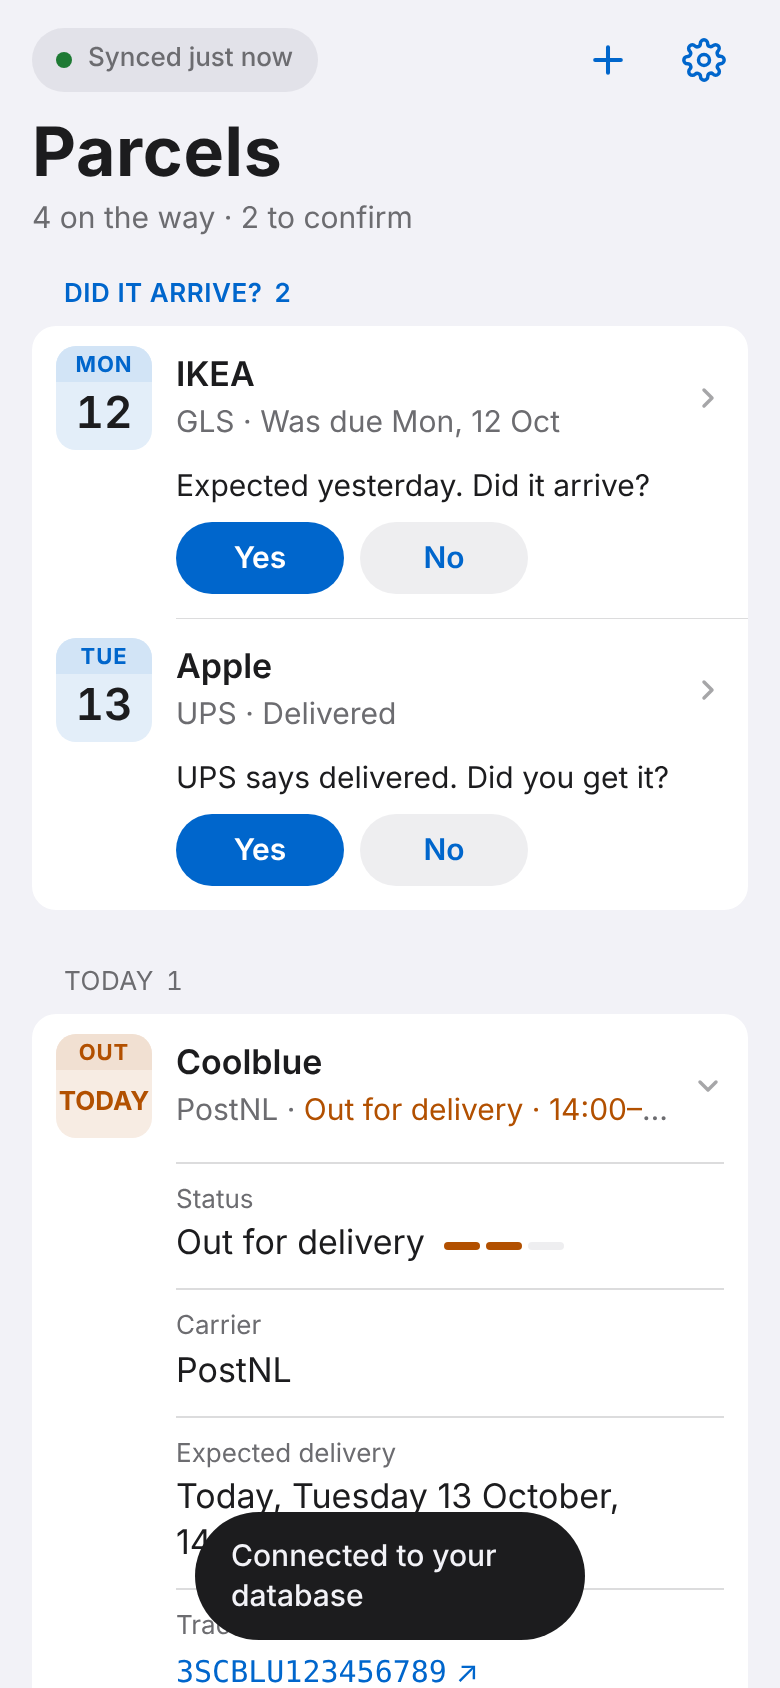
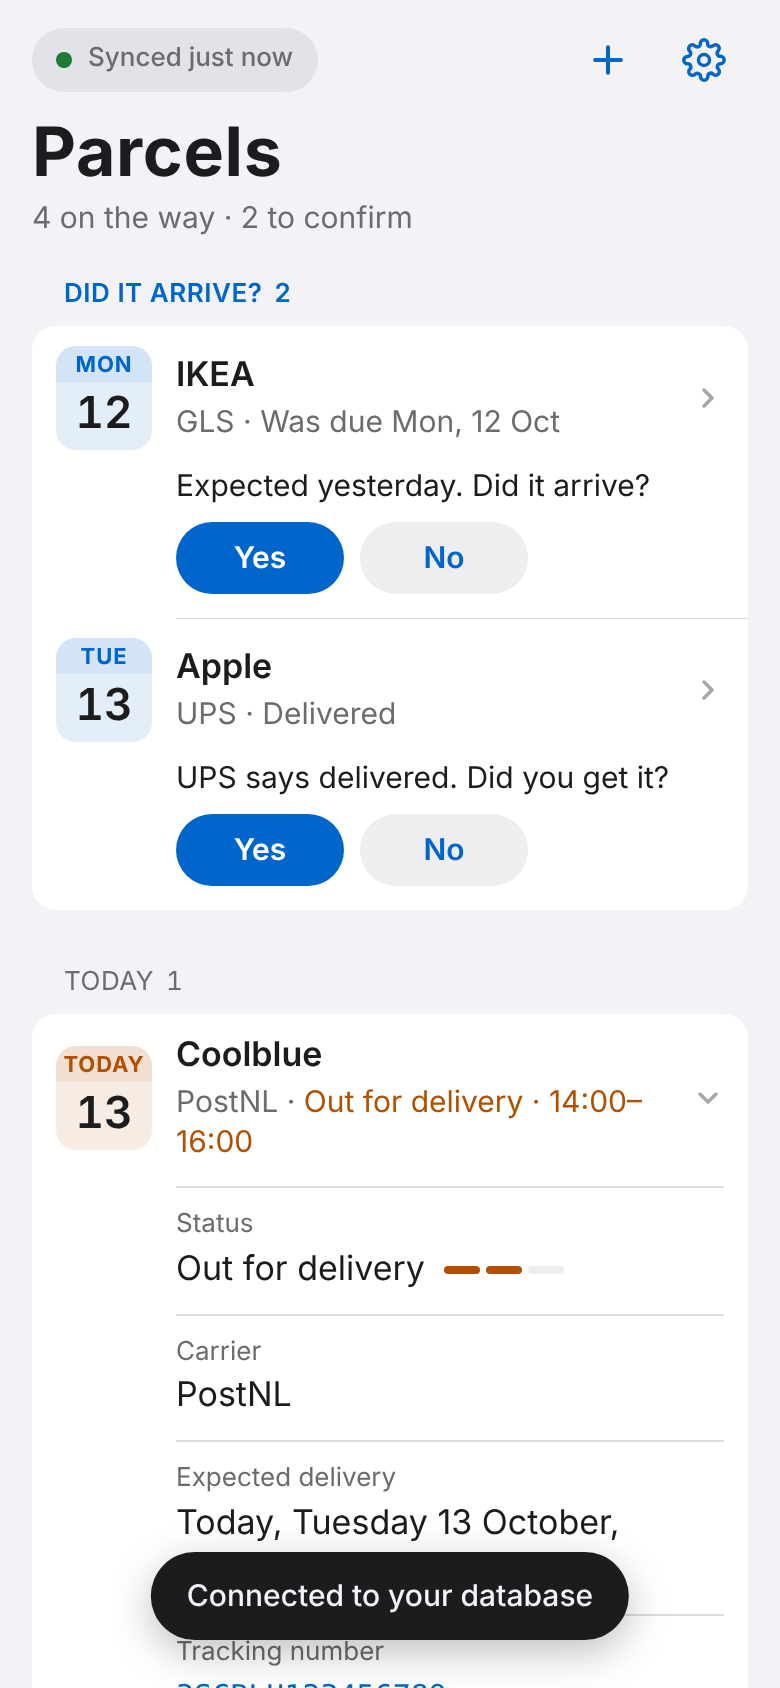
Fix review findings: forwarder as shop, sender spoofing, connect links
- Hand-forwards: label the owner's From line "Forwarded by" so the parser
  doesn't name the parcel after the forwarder; recognise Outlook's
  "Original Message" marker
- ALLOWED_SENDERS is required ('*' opts into anyone) and matched against the
  exact From address or Gmail's X-Forwarded-For; Reply-To and display
  names no longer count
- Escape +, - and @ as well as = before writing to the Sheet
- #connect= links ask before switching a device's database
- Dark-mode sheets get an elevated surface; phone facts stack label over
  value; ask buttons stay together; subtitles wrap to two lines
- Dates keep their case, the out-for-delivery tile shows today's date,
  empty state names the inbox address and offers Connect
- Optional name signs the problem email
- README: save properties, where the token lives, iPhone connect step,
  Pages branch, broader Gmail filter

Claude-Session: https://claude.ai/code/session_01FPgYyKeFreHuQdtpbAjW5h

Changed region(s): [[0.1846, 0.6161, 0.8308, 1.0], [0.0615, 0.5853, 0.1846, 0.7085], [0.7077, 0.6469, 0.8308, 0.6777]]

diff --git a/app.js b/app.js
@@ -17,6 +17,7 @@ const esc = (s = '') => String(s).replace(/[&<>"']/g, (c) => ({ '&': '&amp;', '<
 const uid = () => Math.random().toString(36).slice(2, 10) + Date.now().toString(36);
 const isoDate = (d) => `${d.getFullYear()}-${String(d.getMonth() + 1).padStart(2, '0')}-${String(d.getDate()).padStart(2, '0')}`;
 const todayISO = () => isoDate(new Date());
+const lowerRel = (t) => (/^(Today|Tomorrow|Yesterday)$/.test(t) ? t.toLowerCase() : t);
 const carrierName = (p) => (CARRIERS[p.carrier] || CARRIERS.other).name;
 const trackSite = (p) => (p.carrier && p.carrier !== 'other' ? carrierName(p) : '17TRACK');
 
@@ -200,7 +201,7 @@ function renderSync() {
 function askReason(p, today) {
   if (p.confirmed) return null;
   if (p.status === 'delivered') return `${carrierName(p) === 'Other' ? 'Tracking' : carrierName(p)} says delivered. Did you get it?`;
-  if (p.eta && p.eta < today) return `Expected ${relDay(p.eta).text.toLowerCase()}. Did it arrive?`;
+  if (p.eta && p.eta < today) return `Expected ${lowerRel(relDay(p.eta).text)}. Did it arrive?`;
   return null;
 }
 
@@ -245,7 +246,7 @@ function tile(p, kind) {
   let top, body;
   if (kind === 'done') { top = 'Got it'; body = ICON.check; }
   else if (kind === 'problem') { top = 'Issue'; body = ICON.alert; }
-  else if (p.status === 'out' && (!p.eta || p.eta <= todayISO())) { top = 'Out'; body = '<span class="tile-num word">TODAY</span>'; }
+  else if (p.status === 'out' && (!p.eta || p.eta <= todayISO())) { top = 'Today'; body = `<span class="tile-num">${new Date().getDate()}</span>`; }
   else if (p.eta) {
     const { date } = relDay(p.eta);
     top = date.toLocaleDateString('en-GB', { weekday: 'short' });
@@ -255,7 +256,7 @@ function tile(p, kind) {
 }
 
 function stateText(p, kind) {
-  if (kind === 'done') return `Received${p.deliveredAt ? ' ' + relDay(isoDate(new Date(p.deliveredAt))).text.toLowerCase() : ''}`;
+  if (kind === 'done') return `Received${p.deliveredAt ? ' ' + lowerRel(relDay(isoDate(new Date(p.deliveredAt))).text) : ''}`;
   if (kind === 'problem') return 'Not received';
   if (p.status === 'delivered') return 'Delivered';
   if (p.status === 'out') return `Out for delivery${p.etaWindow ? ' · ' + p.etaWindow : ''}`;
@@ -355,8 +356,11 @@ function render() {
       <div class="empty">
         ${ICON.box}
         <h2>No parcels yet</h2>
-        <p>Forward a shipping email to your Parcels inbox, or add one here by pasting the email or a tracking number.</p>
-        <button class="btn" type="button" data-add>Add Parcel</button>
+        <p>Forward shipping emails to <b>littlehelper689@gmail.com</b> and they appear here. Or add one by pasting the email or a tracking number.</p>
+        <div class="button-row center">
+          <button class="btn" type="button" data-add>Add Parcel</button>
+          ${state.settings.inboxUrl ? '' : '<button class="btn secondary" type="button" data-connect>Connect Database</button>'}
+        </div>
       </div>`;
     return;
   }
@@ -435,7 +439,7 @@ function draftEmail(p, settings = {}) {
     'Could you please look into this and let me know whether you can send a replacement or give a refund?',
     '',
     'Thank you,',
-    '',
+    settings.name || '',
   ].filter((l, i, a) => l !== '' || a[i - 1] !== '').join('\n');
   return { subject, body };
 }
@@ -603,6 +607,7 @@ function saveDetail(form) {
 const settingsSheet = $('#settings-sheet');
 
 function openSettings() {
+  $('#set-name').value = state.settings.name || '';
   $('#set-postcode').value = state.settings.postcode || '';
   $('#set-country').value = state.settings.country || 'NL';
   $('#set-inbox').value = state.settings.inboxUrl || '';
@@ -670,7 +675,7 @@ $('#scan-results').addEventListener('click', (e) => {
 });
 
 $('#board').addEventListener('click', (e) => {
-  const t = e.target.closest('[data-toggle],[data-copy],[data-yes],[data-no],[data-mail],[data-edit],[data-remove],[data-add],#toggle-delivered');
+  const t = e.target.closest('[data-toggle],[data-copy],[data-yes],[data-no],[data-mail],[data-edit],[data-remove],[data-add],[data-connect],#toggle-delivered');
   if (!t) return;
   const d = t.dataset;
   if (t.id === 'toggle-delivered') { state.ui.showDelivered = !state.ui.showDelivered; save(); return render(); }
@@ -681,6 +686,7 @@ $('#board').addEventListener('click', (e) => {
   if (d.mail) return openMail(d.mail);
   if (d.edit) return openDetail(d.edit);
   if (d.add != null) return openAdd();
+  if (d.connect != null) return openSettings();
   if (d.remove) {
     const p = byId(d.remove);
     if (p && confirm(`Delete “${p.title}” from all your devices?`)) { removePackage(d.remove); toast('Deleted'); }
@@ -697,6 +703,7 @@ $('#detail-form').addEventListener('submit', (e) => {
 for (const id of ['#mail-to', '#mail-subject', '#mail-body']) $(id).addEventListener('input', updateMailLink);
 $('#mail-copy').addEventListener('click', () => copy(`Subject: ${$('#mail-subject').value}\n\n${$('#mail-body').value}`, 'Email copied'));
 
+$('#set-name').addEventListener('change', (e) => { state.settings.name = e.target.value.trim(); save(); });
 $('#set-postcode').addEventListener('change', (e) => { state.settings.postcode = e.target.value.trim().toUpperCase(); save(); render(); });
 $('#set-country').addEventListener('change', (e) => { state.settings.country = e.target.value; save(); render(); });
 $('#inbox-connect').addEventListener('click', () => connect($('#set-inbox').value));
@@ -740,7 +747,16 @@ if (hash.get('connect') || incoming) history.replaceState(null, '', location.pat
 render();
 renderSync();
 if (hash.get('connect')) {
-  connect(hash.get('connect'));
+  // A link can point anywhere: say which database, and only switch with consent.
+  const link = hash.get('connect');
+  const id = (link.match(/\/s\/([^/]+)\/exec/) || [])[1] || '?';
+  const short = id.length > 12 ? `${id.slice(0, 6)}…${id.slice(-6)}` : id;
+  const ask = state.settings.inboxUrl && state.settings.inboxUrl !== link
+    ? `Switch this device to a different parcel database (script ${short})? Your parcels here will be copied into it.`
+    : `Connect this device to your parcel database (script ${short})? Parcels on this device will be copied into it.`;
+  if (state.settings.inboxUrl === link) sync();
+  else if (confirm(ask)) connect(link);
+  else sync();
 } else {
   sync();
 }

diff --git a/styles.css b/styles.css
@@ -2,6 +2,8 @@
 :root {
   --bg: #f2f2f7;            /* systemGroupedBackground */
   --surface: #ffffff;       /* secondarySystemGroupedBackground */
+  --sheet: #f2f2f7;
+  --sheet-card: #ffffff;
   --fill: rgba(118, 118, 128, .12);
   --label: #1c1c1e;         /* 17.0:1 on surface */
   --label-2: #6c6c70;       /* 5.2:1 on surface, 4.7:1 on bg */
@@ -22,6 +24,8 @@
   :root {
     --bg: #000000;
     --surface: #1c1c1e;
+    --sheet: #1c1c1e;        /* elevated: sheets sit above the black page */
+    --sheet-card: #2c2c2e;   /* label-2 on it: 6.3:1 */
     --fill: rgba(118, 118, 128, .24);
     --label: #f2f2f7;       /* 15.3:1 */
     --label-2: #aeaeb2;     /* 7.7:1 */
@@ -159,7 +163,10 @@ a { color: var(--accent); }
 
 .row-text { flex: 1; min-width: 0; display: grid; gap: 1px; }
 .row-title { font-weight: 600; overflow: hidden; text-overflow: ellipsis; white-space: nowrap; }
-.row-sub { color: var(--label-2); font-size: 15px; overflow: hidden; text-overflow: ellipsis; white-space: nowrap; }
+.row-sub {
+  color: var(--label-2); font-size: 15px; overflow: hidden;
+  display: -webkit-box; -webkit-box-orient: vertical; -webkit-line-clamp: 2; line-clamp: 2;
+}
 .row-sub .state { color: var(--c, inherit); }
 .st-today .row-sub .state { color: var(--out); }
 .st-problem .row-sub .state { color: var(--bad); }
@@ -196,11 +203,11 @@ a { color: var(--accent); }
   .facts dt { padding: 10px 0 0; font-size: 13px; }
   .facts dd { padding: 2px 0 10px; border-top: 0; text-align: left; font-size: 17px; }
   .facts .track { justify-content: flex-start; }
-  .facts .track-steps { order: 2; margin-left: 4px; }
+  .facts .track-steps { margin-left: 4px; }
 }
 
 .track { display: flex; justify-content: flex-end; align-items: center; gap: 6px; }
-.track-steps { display: inline-flex; gap: 3px; }
+.track-steps { display: inline-flex; gap: 3px; order: 2; }
 .track-steps i { width: 18px; height: 4px; border-radius: 2px; background: var(--fill); }
 .track-steps i.on { background: var(--c, var(--accent)); }
 .st-today .track-steps i.on { background: var(--out); }
@@ -235,6 +242,8 @@ a { color: var(--accent); }
 
 .button-row { display: flex; flex-wrap: wrap; gap: 8px; margin: 12px 0 0; }
 .button-row > * { flex: 1 1 auto; }
+.button-row.center { justify-content: center; }
+.button-row.center > * { flex: 0 0 auto; }
 
 /* ---------- empty ---------- */
 
@@ -248,8 +257,9 @@ a { color: var(--accent); }
 dialog.sheet {
   width: min(560px, 100vw); max-width: 100vw; max-height: min(92vh, 900px);
   margin: auto; padding: 0; border: 0; border-radius: 14px;
-  background: var(--bg); color: var(--label);
+  background: var(--sheet); color: var(--label);
   box-shadow: 0 20px 60px rgba(0, 0, 0, .3);
+  outline: 1px solid var(--separator);
 }
 dialog.sheet::backdrop { background: rgba(0, 0, 0, .35); }
 @media (max-width: 600px) {
@@ -261,22 +271,25 @@ dialog.sheet::backdrop { background: rgba(0, 0, 0, .35); }
 .sheet-inner { padding: 8px 16px calc(24px + env(safe-area-inset-bottom)); }
 .sheet-head {
   position: sticky; top: 0; z-index: 1; display: grid; grid-template-columns: 1fr auto 1fr; align-items: center;
-  margin: 0 -16px 12px; padding: 4px 16px; background: var(--bg);
+  margin: 0 -16px 12px; padding: 4px 16px; background: var(--sheet);
 }
 .sheet-head h2 { margin: 0; font-size: 17px; font-weight: 600; text-align: center; }
 .sheet-head > :first-child { justify-self: start; }
 .sheet-head > :last-child { justify-self: end; }
 .sheet .group-label { margin-top: 20px; }
+.sheet .card, .sheet .notice { background: var(--sheet-card); }
+.sheet .field input, .sheet .field select, .sheet .field textarea { background: var(--sheet-card); }
 
 .field { display: grid; gap: 6px; margin: 0 0 12px; }
 .field-label { color: var(--label-2); font-size: 13px; }
+.field input, .field select { height: 44px; }
 .field input, .field select, .field textarea {
   width: 100%; min-height: 44px; padding: 10px 12px; border: 1px solid var(--separator); border-radius: 10px;
   background: var(--surface); font-size: 17px;
 }
 .field textarea { resize: vertical; line-height: 1.4; }
 .field input:focus, .field select:focus, .field textarea:focus { outline: 2px solid var(--accent); outline-offset: 0; border-color: transparent; }
-.field-row { display: flex; gap: 12px; }
+.field-row { display: flex; gap: 12px; align-items: flex-end; }
 .grow { flex: 1; }
 .card .field:last-child { margin-bottom: 0; }
 
@@ -310,7 +323,8 @@ dialog.sheet::backdrop { background: rgba(0, 0, 0, .35); }
 .toast {
   position: fixed; left: 50%; bottom: calc(24px + env(safe-area-inset-bottom)); z-index: 10;
   max-width: calc(100vw - 32px); padding: 12px 18px; border-radius: 999px;
-  background: var(--label); color: var(--bg); font-size: 15px; font-weight: 500;
+  background: var(--label); color: var(--bg); font-size: 15px; font-weight: 500; text-align: center;
+  width: max-content; box-shadow: 0 6px 20px rgba(0, 0, 0, .25);
   transform: translate(-50%, 20px); opacity: 0; pointer-events: none; transition: opacity .2s, transform .2s;
 }
 .toast.show { opacity: 1; transform: translate(-50%, 0); }

diff --git a/parser.js b/parser.js
@@ -235,7 +235,7 @@ export function emailMeta(text, now = new Date()) {
 
 function findRetailer(text, subject) {
   // In forwarded mail, the original sender sits after the "Forwarded message" marker.
-  const fwd = text.search(/forwarded message|doorgestuurd bericht|weitergeleitete nachricht|begin forwarded/i);
+  const fwd = text.search(/forwarded message|doorgestuurd bericht|weitergeleitete nachricht|begin forwarded|original message|oorspronkelijk bericht/i);
   const scope = fwd >= 0 ? text.slice(fwd) : text;
   const from = scope.match(/^\s*(?:from|van|von)\s*:\s*"?([^"<\n]+?)"?\s*(?:<([^>]+)>)?\s*$/im);
   if (from) {

diff --git a/index.html b/index.html
@@ -116,6 +116,14 @@
       </div>
       <p class="footnote">From the one-time setup in littlehelper689 (see README). Treat this link like a password: anyone who has it can see and change your parcels.</p>
 
+      <h3 class="group-label">Problem Emails</h3>
+      <div class="card pad">
+        <label class="field">
+          <span class="field-label">Your name (signs the email)</span>
+          <input id="set-name" autocomplete="name" placeholder="Your name">
+        </label>
+      </div>
+
       <h3 class="group-label">PostNL</h3>
       <div class="card pad">
         <div class="field-row">

diff --git a/README.md b/README.md
@@ -2,7 +2,7 @@
 
 All your inbound deliveries in one list, the same on your iPhone, MacBook and Windows laptop. **Forward a shipping email to `littlehelper689@gmail.com`** and the parcel appears within a few minutes, with tracking number, carrier, shop, what's inside and expected delivery. When a parcel should have arrived, the app asks you whether it did. If it didn't, it drafts the complaint email for you.
 
-**Open it:** https://m-rozal.github.io/all-parcel-tracking/
+**Open it:** https://m-rozal.github.io/all-parcel-tracking/ (GitHub Pages serves the `main` branch: repo **Settings → Pages → Deploy from branch → main / root**).
 
 ```
  your Gmail ──forward──▶ littlehelper689 Gmail
@@ -38,15 +38,17 @@ Use a **private/incognito window** signed in **only** as `littlehelper689@gmail.
 
 | Property | Value |
 |---|---|
-| `ALLOWED_SENDERS` | Your main email address (comma-separate several). Mail from anyone else is ignored, so strangers can't add parcels. |
+| `ALLOWED_SENDERS` | **Required.** Your main email address (comma-separate several). Mail from any other address is ignored, so strangers can't add parcels. If it's empty, nothing is read. |
 | `ANTHROPIC_API_KEY` | *Recommended.* A key from [console.anthropic.com](https://console.anthropic.com). Lets Claude read messy emails, item names and dates written in prose. |
 | `CLAUDE_MODEL` | *Optional.* Defaults to `claude-opus-5-5`. `claude-haiku-5-5` is much cheaper and fine for this. |
 
+Click **Save script properties**.
+
 ### 3. Run setup
 
-In the editor's toolbar pick the **`setup`** function → **Run**. Approve the permissions: Gmail (read and label), Sheets/Drive (the database), external requests (Claude and tracking links), and triggers (the 5-minute timer). Google will warn that the app is unverified. It's your own script, so choose **Advanced → Go to Parcels inbox**.
+Open **`Code.gs`** in the editor. In the toolbar's function menu (next to **Debug**) pick **`setup`** → **Run**. Approve the permissions: Gmail (read and label), Sheets/Drive (the database), external requests (Claude and tracking links), and triggers (the 5-minute timer). Google will warn that the app is unverified. It's your own script, so choose **Advanced → Go to Parcels inbox**.
 
-The execution log shows your **token**. A Google Sheet called **Parcels database** now exists in littlehelper689's Drive. You can open it at any time to see or fix your data.
+The execution log shows your **token**. You can find it again later under **Project Settings → Script properties → `TOKEN`**. A Google Sheet called **Parcels database** now exists in littlehelper689's Drive. You can open it at any time to see or fix your data.
 
 ### 4. Deploy as a web app
 
@@ -69,7 +71,7 @@ The execution log shows your **token**. A Google Sheet called **Parcels database
 3. Open it on each other device. It connects on its own.
 
 **Install it like an app:**
-- **iPhone:** open in **Safari** → **Share** → **Add to Home Screen**. Open the link from step 2 *inside the installed app's browser*, or paste the database link in its Settings. The home-screen app has its own storage.
+- **iPhone:** open the link from step 2 in **Safari** → **Share** → **Add to Home Screen**. The home-screen app keeps its own storage, so open it once, go to **⚙ Settings**, paste the database link and tap **Connect**.
 - **MacBook:** Safari → **File → Add to Dock**, or Chrome → ⋮ → **Cast, save and share → Install page as app**.
 - **Windows:** Edge → ⋯ → **Apps → Install this site as an app**, or Chrome → ⋮ → **Install**.
 
@@ -78,7 +80,7 @@ The execution log shows your **token**. A Google Sheet called **Parcels database
 - **By hand:** forward any shipping or tracking email to `littlehelper689@gmail.com`.
 - **Automatically:** in your **main** Gmail → ⚙ **See all settings** → **Forwarding and POP/IMAP** → **Add a forwarding address** → `littlehelper689@gmail.com`. Google sends a confirmation email to littlehelper689. Open it there and click the link. Then **Filters** → **Create a new filter** → *Has the words*:
   ```
-  "track & trace" OR "tracking number" OR "out for delivery" OR verzonden OR bezorgd OR "je pakket"
+  "track & trace" OR "tracking number" OR "out for delivery" OR shipped OR "has been dispatched" OR verzonden OR onderweg OR bezorgd OR zending OR "je pakket"
   ```
   → **Create filter** → tick **Forward it to** littlehelper689 → **Create filter**.
 
@@ -100,7 +102,8 @@ Carriers it recognises: PostNL, DHL, DPD, UPS, GLS, FedEx, Amazon (TBA), Budbee,
 
 - **Where it lives:** one Google Sheet in littlehelper689's Drive. Each device keeps an offline copy and uploads edits made offline once it's back online.
 - **Who can reach it:** only someone with the database link (a 122-bit random token). The Sheet itself is private to littlehelper689.
-- **Who can add parcels by email:** only the addresses in `ALLOWED_SENDERS`.
+- **Who can add parcels by email:** only mail whose real sender address (or Gmail's auto-forward header) is in `ALLOWED_SENDERS`, matched exactly. Only the inbox is read; Gmail's spam filter removes most forged senders first.
+- **Connect links** (`#connect=…`) always ask before switching a device to a database.
 - **Claude:** only reads emails that reached littlehelper689 from an allowed sender. It is told to treat the email as data, never as instructions, and a tracking number is saved only if it literally appears in the email.
 - **Housekeeping:** deleted parcels are purged after 60 days and received ones after 180 days.
 - The repo holds only code.
